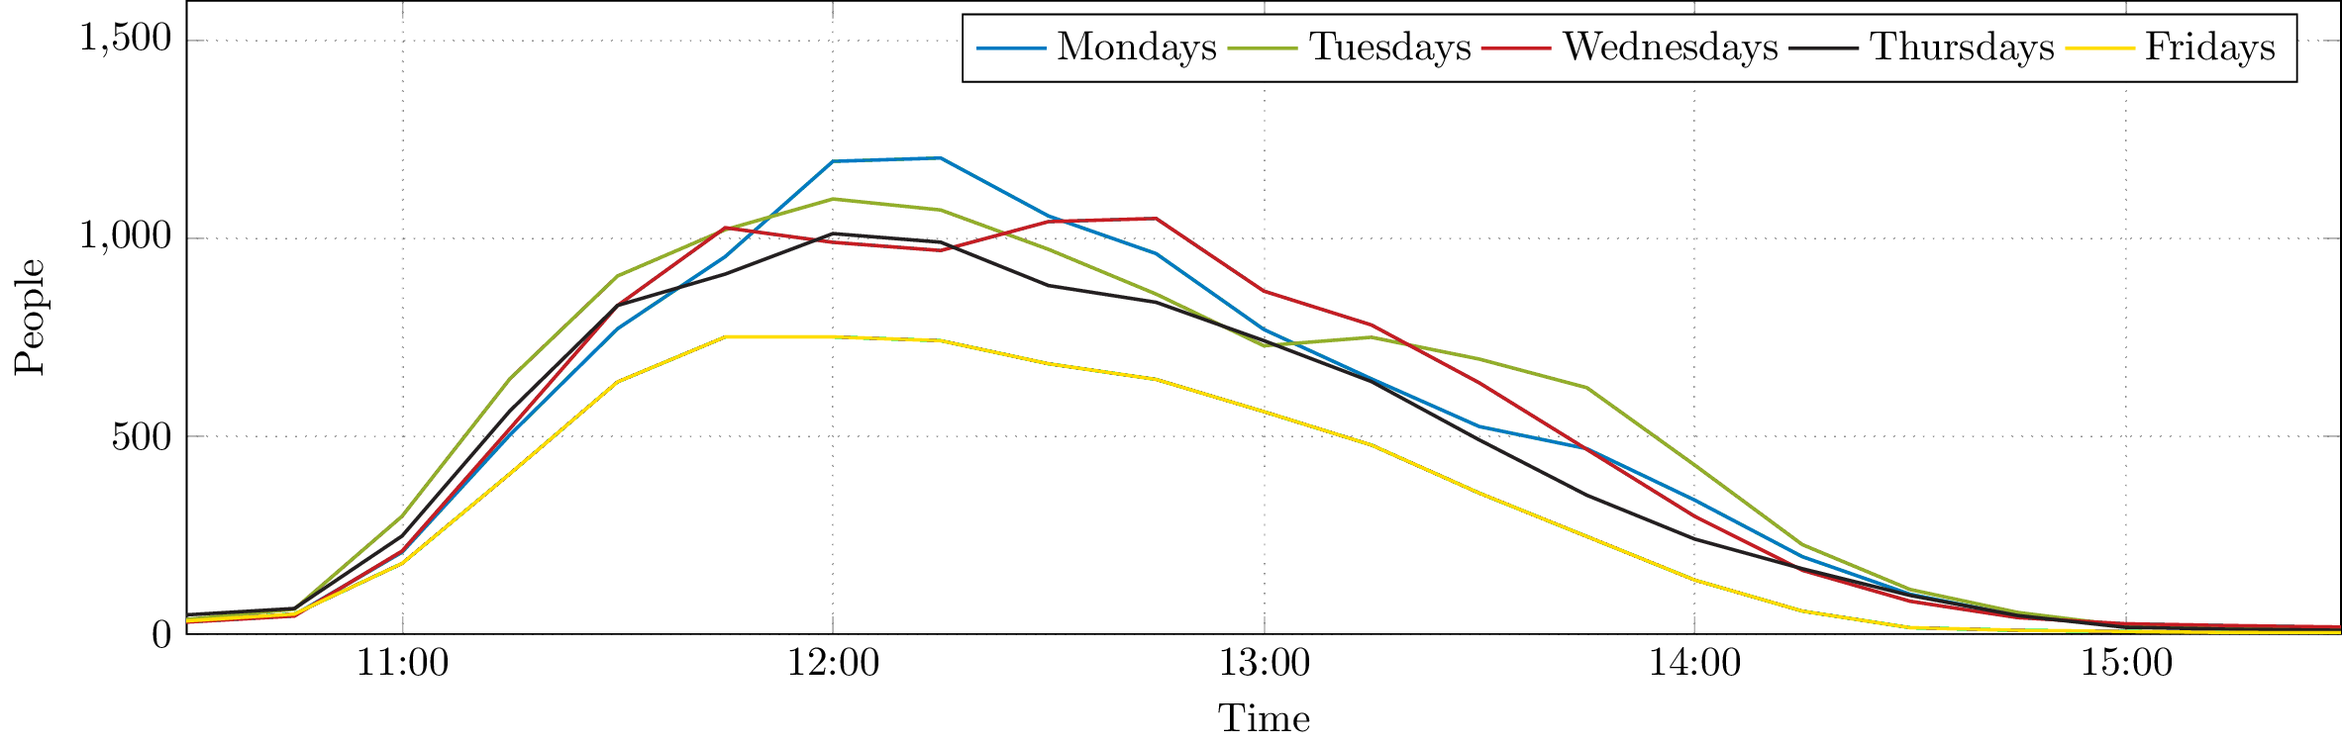
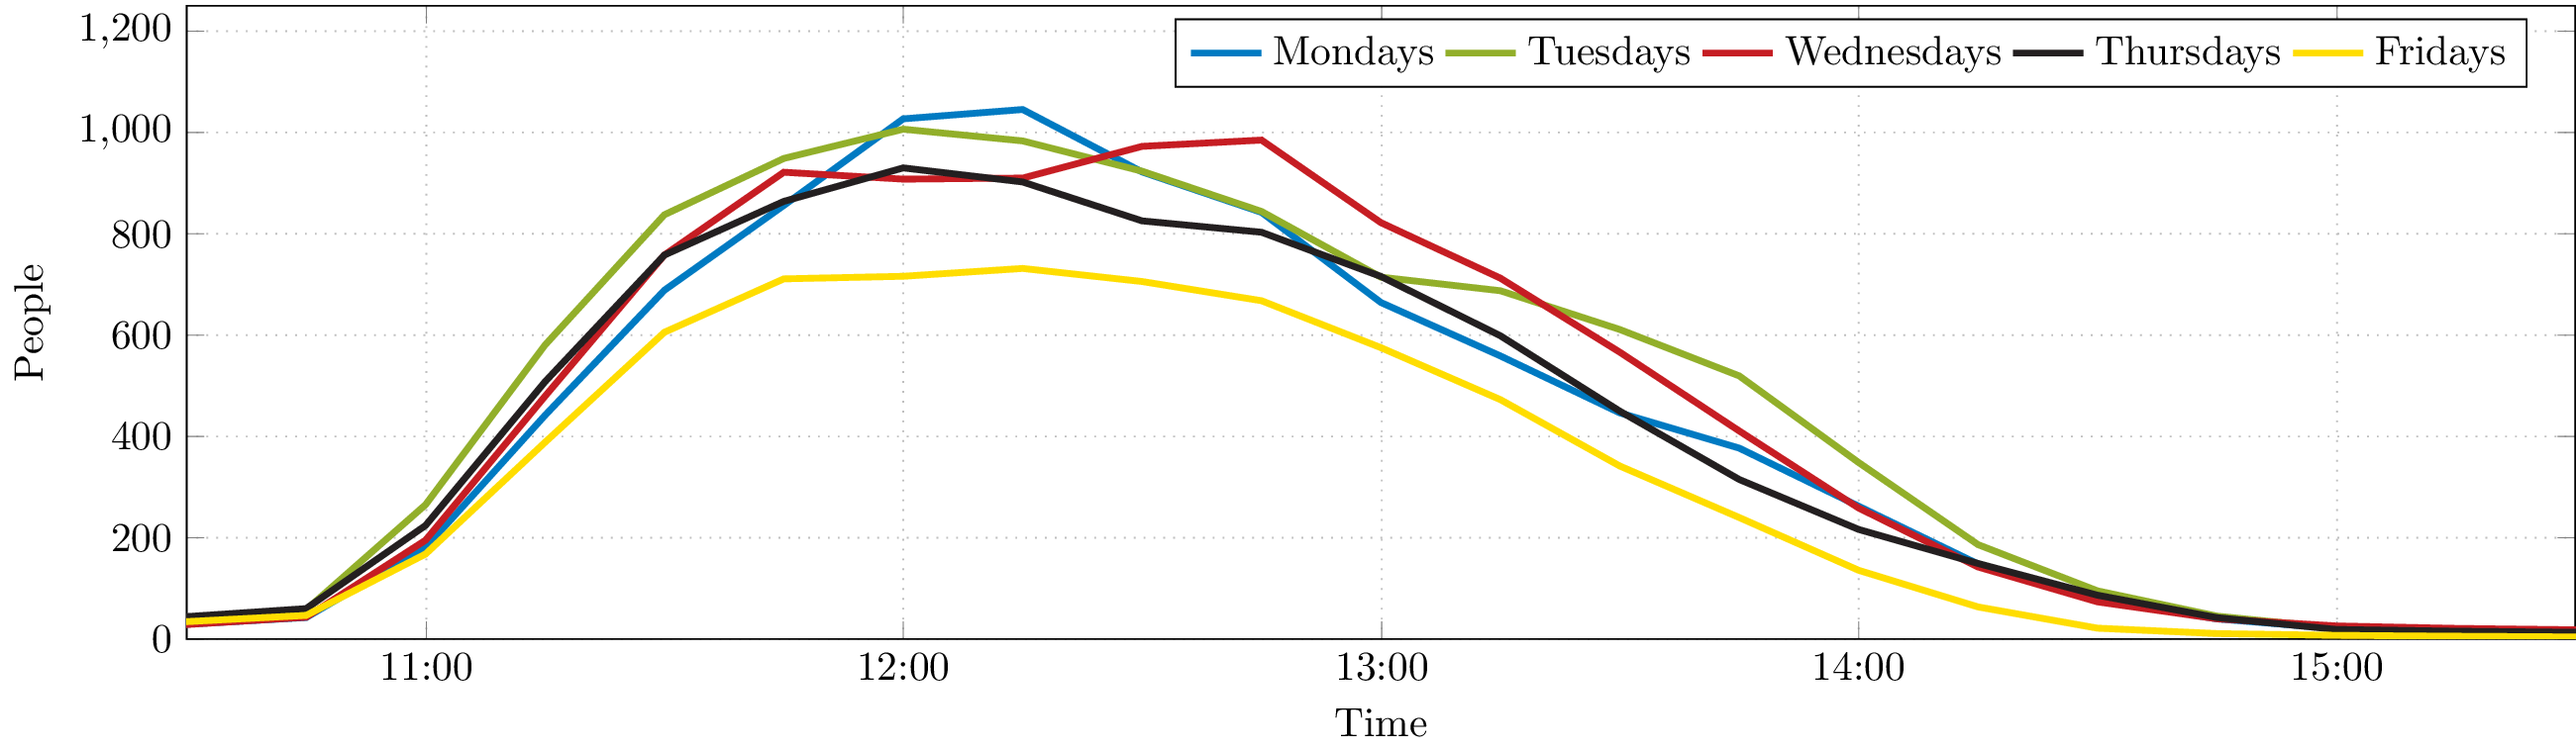
final update for ws 2019

diff --git a/tex/average.tex b/tex/average.tex
@@ -50,10 +50,10 @@
 	timeplot, timeplot zero = 0,
 	enlarge x limits=0,
 	grid=major,
-	width=20cm,
+	width=22cm,
 	height=7cm,
 	ymin=0,
-	ymax=1600,
+	ymax=1250,
 	xmin={10:30},
 	xmax={15:30},
 	xtick={11:00.1, 12:00, 13:00.1, 14:00, 15:00.1}, % apparently there's something wrong with rounding or floats in the coord trafo above
@@ -62,11 +62,11 @@
 	legend entries = {Mondays, Tuesdays, Wednesdays, Thursdays, Fridays},
 	legend columns = {5}
 ]
-\addplot+[mark=none,color=TUMBlue,thick,discard if not symbolic={weekday}{Monday}] table[col sep=comma, x=timestamp, y=value]{../average.csv};
-\addplot+[mark=none,color=TUMGreen,thick,discard if not symbolic={weekday}{Tuesday}] table[col sep=comma, x=timestamp, y=value]{../average.csv};
-\addplot+[mark=none,color=TUMRed,thick,discard if not symbolic={weekday}{Wednesday}] table[col sep=comma, x=timestamp, y=value]{../average.csv};
-\addplot+[mark=none,color=TUMBlack,thick,discard if not symbolic={weekday}{Thursday}] table[col sep=comma, x=timestamp, y=value]{../average.csv};
-\addplot+[mark=none,color=TUMYellow,thick,discard if not symbolic={weekday}{Friday}] table[col sep=comma, x=timestamp, y=value]{../average.csv};
+\addplot+[mark=none,color=TUMBlue,ultra thick,discard if not symbolic={weekday}{Monday}] table[col sep=comma, x=timestamp, y=value]{../average.csv};
+\addplot+[mark=none,color=TUMGreen,ultra thick,discard if not symbolic={weekday}{Tuesday}] table[col sep=comma, x=timestamp, y=value]{../average.csv};
+\addplot+[mark=none,color=TUMRed,ultra thick,discard if not symbolic={weekday}{Wednesday}] table[col sep=comma, x=timestamp, y=value]{../average.csv};
+\addplot+[mark=none,color=TUMBlack,ultra thick,discard if not symbolic={weekday}{Thursday}] table[col sep=comma, x=timestamp, y=value]{../average.csv};
+\addplot+[mark=none,color=TUMYellow,ultra thick,discard if not symbolic={weekday}{Friday}] table[col sep=comma, x=timestamp, y=value]{../average.csv};
 \end{axis}
 \end{tikzpicture}
 

diff --git a/tex/overview.tex b/tex/overview.tex
@@ -17,21 +17,23 @@
 	ybar,
 	bar width=1.5mm,
 	grid=major,
-	width=20cm,
-	height=5cm,
+	width=22cm,
+	height=5.5cm,
 	ymin=0,
 	ylabel={People},
 	xlabel={Date},
+	xticklabel style={rotate=45, anchor=east, yshift=-0.1cm, xshift=0.1cm},
 	date ZERO=2019-09-11, % docs says this is no longer required, but it is needed for xtick to work
 	xticklabel={\day.\month},
 	% , ..., does not work with dates and we want to mark every monday :(
 	xtick={
-		2019-09-16, 2019-09-23,  2019-09-30,
+		2019-09-16, 2019-09-23, 2019-09-30,
 		2019-10-07, 2019-10-14, 2019-10-21, 2019-10-28,
 		2019-11-04, 2019-11-11, 2019-11-18, 2019-11-25,
 		2019-12-02, 2019-12-09, 2019-12-16, 2019-12-23, 2019-12-30,
 		2020-01-06, 2020-01-13, 2020-01-20, 2020-01-27,
-		2020-02-03, 2020-02-10, 2020-02-17, 2020-02-24
+		2020-02-03, 2020-02-10, 2020-02-17, 2020-02-24,
+		2020-03-02, 2020-03-09, 2020-03-16, 2020-03-23, 2020-03-30
 	},
 ]
 \addplot[mark=none,color=TUMBlue,fill=TUMBlue,thick] table[col sep=comma, x=day, y=peak]{../overview.csv};

diff --git a/tex/single-day.tex b/tex/single-day.tex
@@ -37,7 +37,7 @@
 	timeplot, timeplot zero = 0,
 	enlarge x limits=0,
 	grid=major,
-	width=20cm,
+	width=22cm,
 	height=7cm,
 	ymin=0,
 	xmin={10:30},
@@ -47,7 +47,7 @@
 	xlabel={Time},
 %	xticklabel style= {rotate=90, anchor=near xticklabel},
 ]
-\addplot[mark=none,color=TUMBlue,thick] table[col sep=comma, x=timestamp, y=value]{../single-day.csv};
+\addplot[mark=none,color=TUMBlue,ultra thick] table[col sep=comma, x=timestamp, y=value]{../single-day.csv};
 \end{axis}
 \end{tikzpicture}
 

diff --git a/README.md b/README.md
@@ -31,14 +31,14 @@ Looks like 12:00 is the most popular time for lunch. The script filters days tha
 # Check out a specific day
 
 ```bash
-cargo run -- --mode single --ap-stats ap-stats.json --day 2019-11-18 > day.csv
+cargo run -- --mode single --ap-stats ap-stats.json --day 2020-01-27 > day.csv
 cd tex
 pdflatex single-day.tex
 ```
 
 ![Stats for 2019-11-18](img/single-day.png)
 
-Traffic on the busiest day yet: Monday, November 18th, 2019.
+Traffic on the busiest day yet: Monday, January 27th, 2020.
 
 Pro-tipp: Re-download the stats with a custom `from` parameter if you want to render a day that is less than 4 weeks ago. This gives you data with 5 minute granularity.
 
